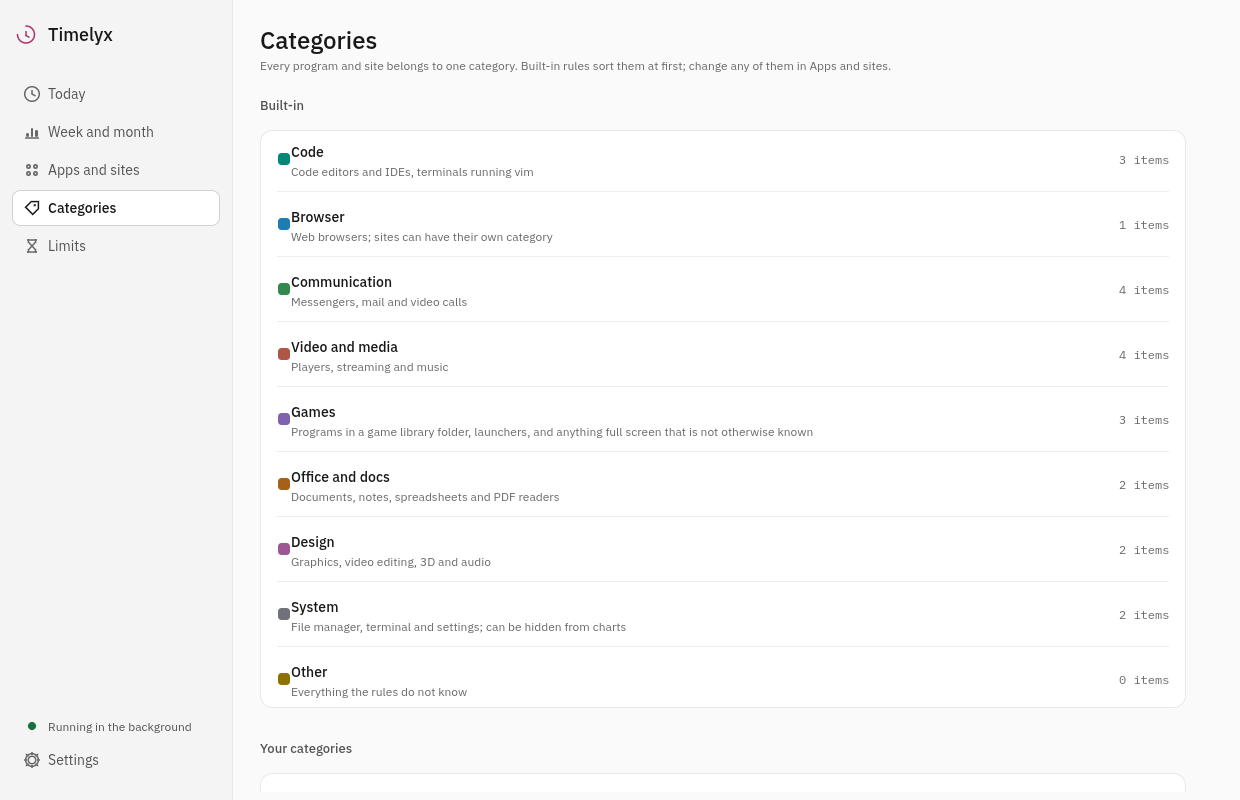
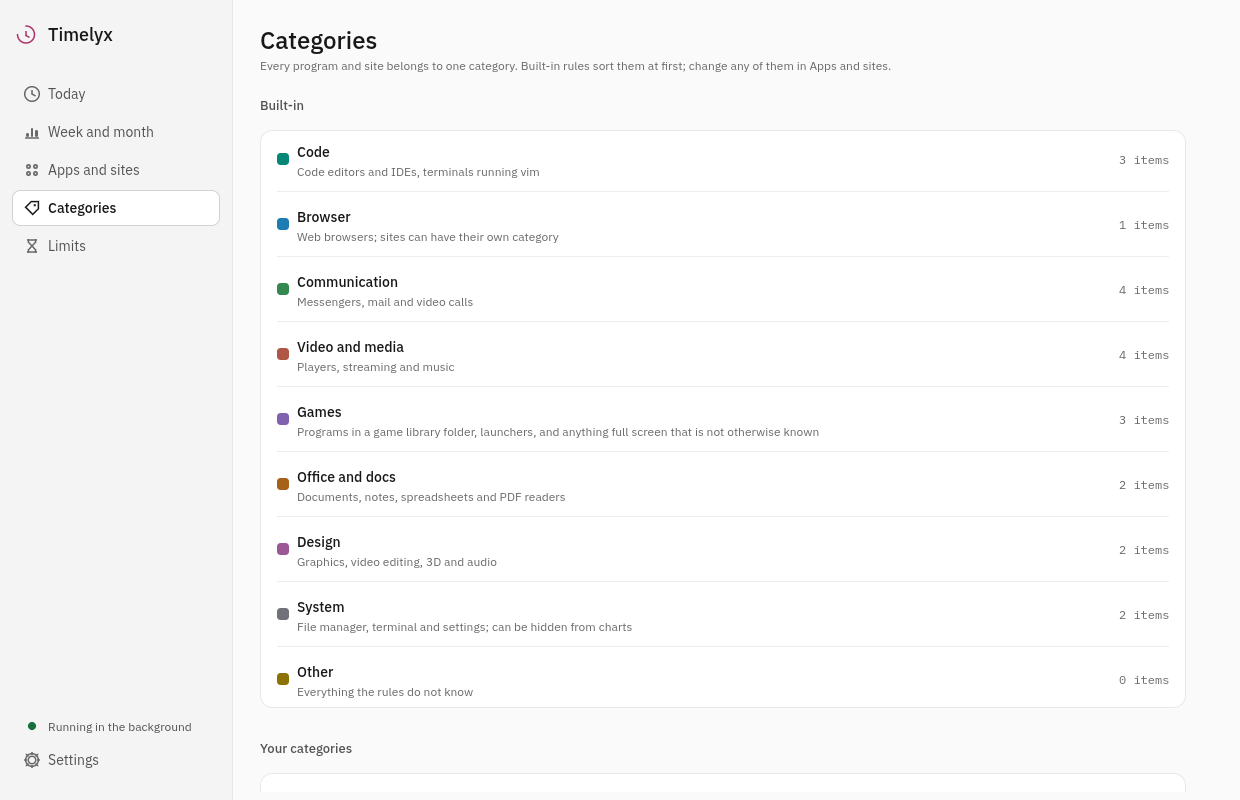
Spacing fixes, donut time format, consistent demo today

diff --git a/src/app/categories.rs b/src/app/categories.rs
@@ -64,8 +64,8 @@ impl App {
                     }
                     ui.horizontal(|ui| {
                         ui.set_min_height(48.0);
-                        let (r, _) = ui.allocate_exact_size(vec2(14.0, 48.0), Sense::hover());
-                        ui.painter().rect_filled(egui::Rect::from_center_size(r.center(), vec2(12.0, 12.0)), 3.0, widgets::rgb(*color));
+                        let (r, _) = ui.allocate_exact_size(vec2(20.0, 48.0), Sense::hover());
+                        ui.painter().rect_filled(egui::Rect::from_center_size(r.left_center() + vec2(6.0, 0.0), vec2(12.0, 12.0)), 3.0, widgets::rgb(*color));
                         ui.vertical(|ui| {
                             ui.add_space(8.0);
                             ui.spacing_mut().item_spacing.y = 2.0;
@@ -112,8 +112,8 @@ impl App {
                     } else {
                         ui.horizontal(|ui| {
                             ui.set_min_height(48.0);
-                            let (r, _) = ui.allocate_exact_size(vec2(14.0, 48.0), Sense::hover());
-                            ui.painter().rect_filled(egui::Rect::from_center_size(r.center(), vec2(12.0, 12.0)), 3.0, widgets::rgb(c.color));
+                            let (r, _) = ui.allocate_exact_size(vec2(20.0, 48.0), Sense::hover());
+                            ui.painter().rect_filled(egui::Rect::from_center_size(r.left_center() + vec2(6.0, 0.0), vec2(12.0, 12.0)), 3.0, widgets::rgb(c.color));
                             ui.label(RichText::new(&c.name).font(theme::medium(14.0)).color(p.text));
                             ui.with_layout(Layout::right_to_left(Align::Center), |ui| {
                                 if widgets::icon_button(ui, Icon::Trash, 32.0, p).on_hover_text(t.delete).clicked() {

diff --git a/src/app/charts.rs b/src/app/charts.rs
@@ -111,7 +111,7 @@ pub fn donut(ui: &mut Ui, p: &Pal, size: f32, thickness: f32, slices: &[(Color32
             painter.add(Shape::line(arc_points(c, r, a0, a1, steps), PathStroke::new(thickness, *col)));
         }
     }
-    painter.text(c + vec2(0.0, -7.0), Align2::CENTER_CENTER, top, theme::mono(17.0), p.text);
+    painter.text(c + vec2(0.0, -7.0), Align2::CENTER_CENTER, top, theme::mono(14.0), p.text);
     painter.text(c + vec2(0.0, 12.0), Align2::CENTER_CENTER, sub, theme::reg(12.0), p.muted);
 }
 
@@ -266,12 +266,12 @@ pub fn legend_row(ui: &mut Ui, p: &Pal, lang: Lang, color: Color32, name: &str, 
 pub fn legend_chip(ui: &mut Ui, p: &Pal, lang: Lang, color: Color32, name: &str, secs: i64) {
     let g_name = ui.painter().layout_no_wrap(name.to_string(), theme::reg(12.5), p.text2);
     let g_time = ui.painter().layout_no_wrap(fmt::duration(lang, secs), theme::mono(12.0), p.muted);
-    let w = 14.0 + g_name.size().x + 8.0 + g_time.size().x;
+    let w = 16.0 + g_name.size().x + 8.0 + g_time.size().x;
     let (rect, _) = ui.allocate_exact_size(vec2(w, 20.0), Sense::hover());
     let painter = ui.painter();
     painter.circle_filled(pos2(rect.left() + 4.0, rect.center().y), 4.0, color);
-    painter.galley(pos2(rect.left() + 14.0, rect.center().y - g_name.size().y / 2.0), g_name.clone(), p.text2);
-    painter.galley(pos2(rect.left() + 14.0 + g_name.size().x + 8.0, rect.center().y - g_time.size().y / 2.0), g_time, p.muted);
+    painter.galley(pos2(rect.left() + 16.0, rect.center().y - g_name.size().y / 2.0), g_name.clone(), p.text2);
+    painter.galley(pos2(rect.left() + 16.0 + g_name.size().x + 8.0, rect.center().y - g_time.size().y / 2.0), g_time, p.muted);
 }
 #[cfg(test)]
 mod tests {

diff --git a/src/app/limits.rs b/src/app/limits.rs
@@ -96,11 +96,12 @@ impl App {
                             ui.horizontal(|ui| {
                                 if l.kind == "category" {
                                     let info = self.cat.category(lang, &l.target);
-                                    let (r, _) = ui.allocate_exact_size(vec2(14.0, 20.0), Sense::hover());
-                                    ui.painter().rect_filled(egui::Rect::from_center_size(r.center(), vec2(12.0, 12.0)), 3.0, widgets::rgb(info.color));
+                                    let (r, _) = ui.allocate_exact_size(vec2(20.0, 20.0), Sense::hover());
+                                    ui.painter().rect_filled(egui::Rect::from_center_size(r.left_center() + vec2(6.0, 0.0), vec2(12.0, 12.0)), 3.0, widgets::rgb(info.color));
                                 }
                                 ui.label(RichText::new(self.cat.limit_target_name(lang, l)).font(theme::medium(14.0)).color(p.text));
                                 if reached {
+                                    ui.add_space(8.0);
                                     ui.label(RichText::new(t.limit_reached).font(theme::reg(12.0)).color(p.warning));
                                 }
                             });
@@ -110,6 +111,7 @@ impl App {
                             ui.add_space(8.0);
                         });
                         ui.with_layout(Layout::right_to_left(Align::Center), |ui| {
+                            ui.spacing_mut().item_spacing.x = 12.0;
                             if widgets::icon_button(ui, Icon::Trash, 32.0, p).on_hover_text(t.remove).clicked() {
                                 act = Some(Act::Remove(l.kind.clone(), l.target.clone()));
                             }

diff --git a/src/demo.rs b/src/demo.rs
@@ -181,6 +181,12 @@ pub fn fill(dir: &Path) {
         r.1 = r.1.min(now - 60);
     }
     rows.retain(|r| r.1 > r.0);
+    // The window shows "Visual Studio Code, 42 minutes" as the current activity: make it part of today.
+    let (cs, ce) = (now - 42 * 60, now - 60);
+    rows.retain(|r| r.1 <= cs || r.0 >= ce);
+    if let Some((a, s)) = target_of(&db, Act::App(CODE)) {
+        rows.push((cs, ce, a, s));
+    }
     rows.sort_by_key(|r| r.0);
     let _ = db.append_sessions(&rows);
 

diff --git a/src/app/today.rs b/src/app/today.rs
@@ -253,7 +253,7 @@ impl App {
         ui.horizontal_top(|ui| {
             ui.spacing_mut().item_spacing.x = 16.0;
             ui.vertical(|ui| {
-                charts::donut(ui, p, 150.0, 20.0, &slices, &fmt::duration_short(self.lang, total), self.s().total);
+                charts::donut(ui, p, 150.0, 20.0, &slices, &fmt::duration(self.lang, total), self.s().total);
             });
             ui.vertical(|ui| {
                 ui.set_width(ui.available_width());
